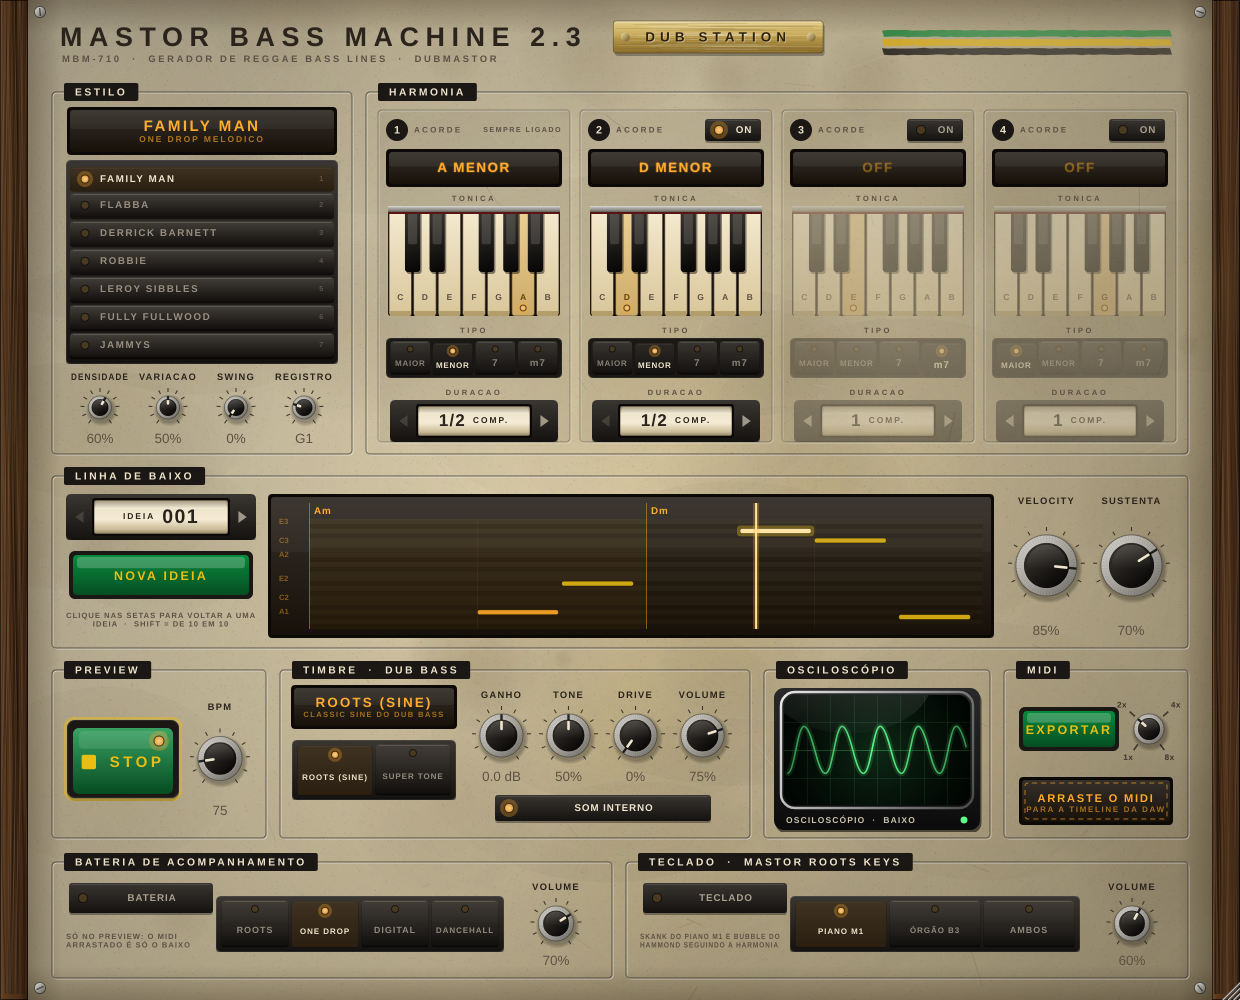
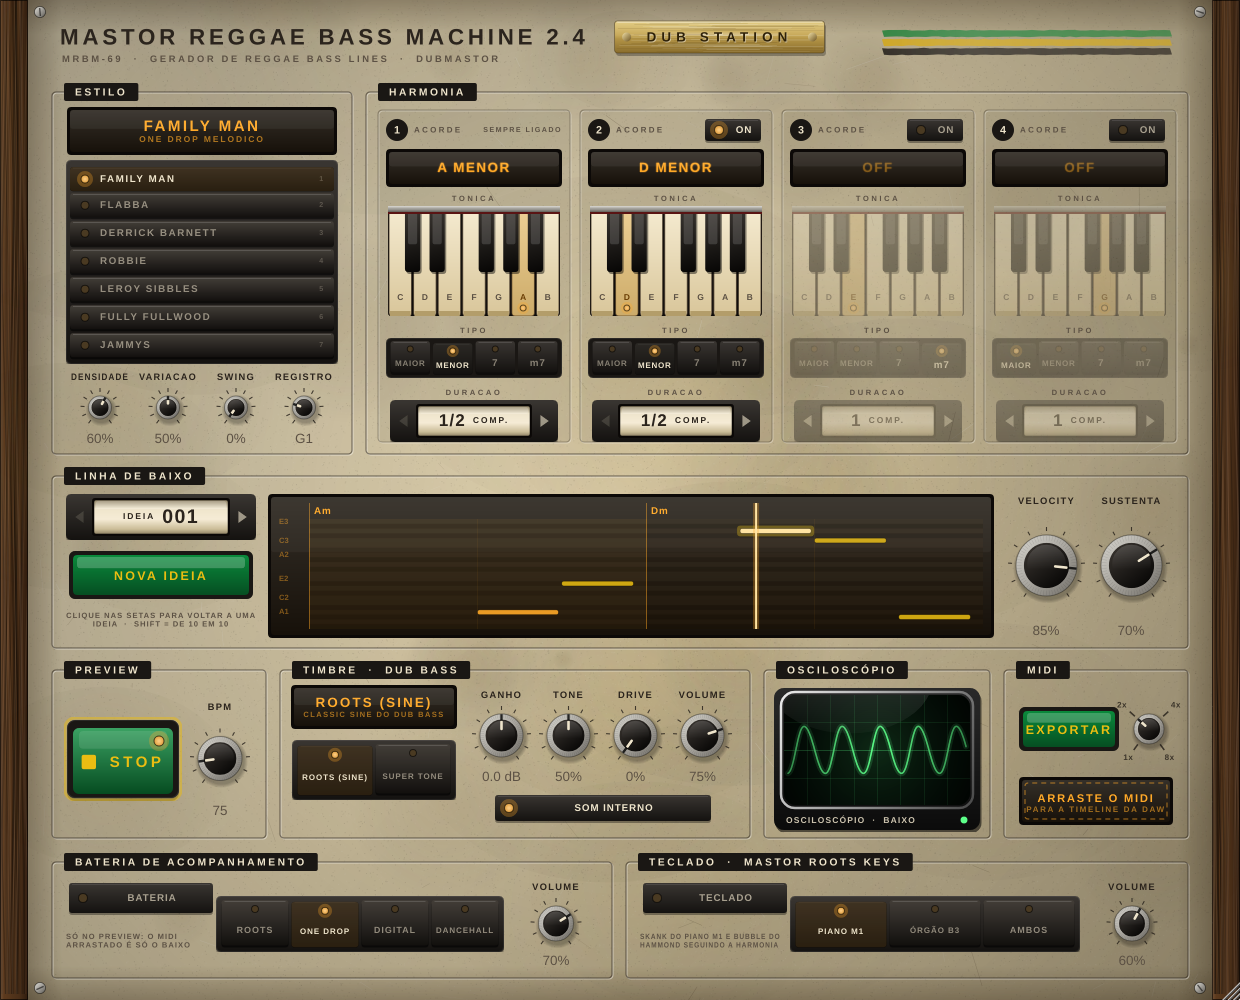
Mastor Reggae Bass Machine MRBM-69 2.4: novo nome em tudo
- Nome: Mastor Reggae Bass Machine MRBM-69 (antes Mastor Bass Machine MBM-710) no
  título, no nome do plugin na DAW, no Standalone, nos MIDIs exportados e na pasta padrão
- Release e instaladores: MRBM-69-x.y, MRBM-69-Windows.zip, MRBM-69-macOS.zip
- Códigos do plugin (Dblb / Mbm7) e bundle id mantidos: projetos antigos continuam abrindo
- Título menor para caber o nome novo ao lado da plaqueta DUB STATION
- Versão 2.4, READMEs, notas e imagem atualizados

Claude-Session: https://claude.ai/code/session_01DJAeyZbiJ7iwjCqM3GUBFu

Changed region(s): [[0.0306, 0.031, 0.4903, 0.062], [0.521, 0.031, 0.6435, 0.062]]

diff --git a/BassMachine/Source/PluginEditor.cpp b/BassMachine/Source/PluginEditor.cpp
@@ -2,7 +2,7 @@
 #include <tuple>
 
 #ifndef JucePlugin_VersionString
- #define JucePlugin_VersionString "2.3.0"
+ #define JucePlugin_VersionString "2.4.0"
 #endif
 static juce::String versionShort() { return juce::String (JucePlugin_VersionString).upToLastOccurrenceOf (".", false, false); }
 
@@ -604,7 +604,7 @@ void MidiDragZone::mouseDrag (const juce::MouseEvent&)
     dragging = true;
     const auto s = proc.getSettings();
     auto file = juce::File::getSpecialLocation (juce::File::tempDirectory)
-                    .getChildFile (juce::String ("Bass Machine ") + mbm::styleName (s.style) + " " + juce::String (s.seed) + ".mid");
+                    .getChildFile (juce::String ("Reggae Bass Machine ") + mbm::styleName (s.style) + " " + juce::String (s.seed) + ".mid");
     if (proc.writeMidiFile (file))
         juce::DragAndDropContainer::performExternalDragDropOfFiles (juce::StringArray (file.getFullPathName()), false, this);
 }
@@ -965,7 +965,7 @@ bool BassMachinePanel::slotEnabled (int i) const
 
 void BassMachinePanel::exportMidi()
 {
-    auto dir = juce::File::getSpecialLocation (juce::File::userDocumentsDirectory).getChildFile ("Bass Machine");
+    auto dir = juce::File::getSpecialLocation (juce::File::userDocumentsDirectory).getChildFile ("Reggae Bass Machine");
     dir.createDirectory();
     const auto s = proc.getSettings();
     const auto name = juce::String ("baixo ") + juce::String (mbm::styleName (s.style)).toLowerCase() + " " + juce::String (s.seed) + ".mid";
@@ -980,7 +980,7 @@ void BassMachinePanel::exportMidi()
                               if (! f.hasFileExtension ("mid")) f = f.withFileExtension ("mid");
                               if (! proc.writeMidiFile (f))
                                   juce::AlertWindow::showMessageBoxAsync (juce::MessageBoxIconType::WarningIcon,
-                                                                          "Bass Machine", "Nao foi possivel salvar o MIDI.");
+                                                                          "Reggae Bass Machine", "Nao foi possivel salvar o MIDI.");
                           });
 }
 
@@ -1141,8 +1141,8 @@ void BassMachinePanel::renderBackground()
 
     // --- cabeçalho
     g.setColour (colours::ink);
-    g.setFont (stencil (30.0f, 0.22f));
-    const juce::String title ("MASTOR BASS MACHINE " + versionShort());
+    g.setFont (stencil (25.0f, 0.15f));
+    const juce::String title ("MASTOR REGGAE BASS MACHINE " + versionShort());
     g.drawText (title, plate.getX() + 32, 20, 760, 34, juce::Justification::left);
     const float titleRight = (float) plate.getX() + 32.0f + juce::GlyphArrangement::getStringWidth (g.getCurrentFont(), title);
 
@@ -1183,7 +1183,7 @@ void BassMachinePanel::renderBackground()
     }
     g.setColour (colours::inkSoft);
     g.setFont (stencil (10.5f, 0.25f));
-    g.drawText (juce::String::fromUTF8 ("MBM-710  \xc2\xb7  GERADOR DE REGGAE BASS LINES  \xc2\xb7  DUBMASTOR"), plate.getX() + 34, 52, 700, 14, juce::Justification::left);
+    g.drawText (juce::String::fromUTF8 ("MRBM-69  \xc2\xb7  GERADOR DE REGGAE BASS LINES  \xc2\xb7  DUBMASTOR"), plate.getX() + 34, 52, 700, 14, juce::Justification::left);
 
     {   // faixas da bandeira da Jamaica, pintadas à mão e envelhecidas
         const float sx = (float) plate.getRight() - 330.0f, sw = 290.0f, sh = 7.0f;

diff --git a/BassMachine/Source/DubBassTimbre.h b/BassMachine/Source/DubBassTimbre.h
@@ -1,9 +1,9 @@
-// Mastor Bass Machine MBM-710 — som do preview com o sistema de timbres do Dub Bass
+// Mastor Reggae Bass Machine MRBM-69 — som do preview com o sistema de timbres do Dub Bass
 //
 // Usa as mesmas peças do Dub Bass (pasta ../../DubBass/Source): a voz BassVoice (Classic Sine com
 // harmônicos ou 808), o filtro passa-baixa, as saturações TUBE / TAPE / FUZZ e o Maximizer.
 // Cada TIMBRE é um conjunto de ajustes do Dub Bass; TONE e DRIVE mexem por cima do timbre.
-// Se o Dub Bass mudar o som, o preview do Bass Machine acompanha.
+// Se o Dub Bass mudar o som, o preview do Reggae Bass Machine acompanha.
 #pragma once
 #include <juce_dsp/juce_dsp.h>
 #include "../../DubBass/Source/BassVoice.h"

diff --git a/BassMachine/Source/PluginProcessor.cpp b/BassMachine/Source/PluginProcessor.cpp
@@ -446,7 +446,7 @@ bool BassMachineProcessor::writeMidiFile (const juce::File& file) const
     juce::MidiMessageSequence meta, bass;
     meta.addEvent (juce::MidiMessage::tempoMetaEvent ((int) std::round (60000000.0 / bpm)), 0.0);
     meta.addEvent (juce::MidiMessage::timeSignatureMetaEvent (4, 4), 0.0);
-    bass.addEvent (juce::MidiMessage::textMetaEvent (3, juce::String ("Bass Machine - ") + mbm::styleName (s.style)
+    bass.addEvent (juce::MidiMessage::textMetaEvent (3, juce::String ("Reggae Bass Machine - ") + mbm::styleName (s.style)
                                                           + " ideia " + juce::String (s.seed)), 0.0);
 
     for (int r = 0; r < reps; ++r)

diff --git a/BassMachine/tests/snapshot.cpp b/BassMachine/tests/snapshot.cpp
@@ -1,4 +1,4 @@
-// Renderiza a interface do Bass Machine num PNG (sem DAW), com o loop tocando para o visor e o osciloscópio:
+// Renderiza a interface do Reggae Bass Machine num PNG (sem DAW), com o loop tocando para o visor e o osciloscópio:
 //   cmake -B build-snap -DBASSMACHINE_SNAPSHOT=ON -DBASSMACHINE_PLUGIN=OFF && cmake --build build-snap --target BassMachineSnapshot
 //   ./build-snap/.../BassMachineSnapshot docs/interface.png [estilo 0-6] [timbre 0-1] [escala] [wav] [bateria 0-3] [teclado 0-2]
 #include <juce_audio_utils/juce_audio_utils.h>

diff --git a/BassMachine/Source/PluginProcessor.h b/BassMachine/Source/PluginProcessor.h
@@ -23,7 +23,7 @@ public:
     juce::AudioProcessorEditor* createEditor() override;
     bool hasEditor() const override { return true; }
 
-    const juce::String getName() const override { return "Mastor Bass Machine MBM-710"; }
+    const juce::String getName() const override { return "Mastor Reggae Bass Machine MRBM-69"; }
     bool acceptsMidi() const override  { return true; }
     bool producesMidi() const override { return true; }
     bool isMidiEffect() const override { return false; }

diff --git a/BassMachine/Source/AccompEngine.h b/BassMachine/Source/AccompEngine.h
@@ -1,4 +1,4 @@
-// Mastor Bass Machine — acompanhamento do PREVIEW (C++ puro, sem JUCE)
+// Mastor Reggae Bass Machine — acompanhamento do PREVIEW (C++ puro, sem JUCE)
 //
 // BATERIA: quatro levadas simples, com um compasso de virada no fim do loop.
 //   ROOTS      rockers da Channel One: bumbo no 1 e no 3, aro no 3, hi-hat em colcheias com

diff --git a/BassMachine/Source/BassEngine.h b/BassMachine/Source/BassEngine.h
@@ -1,4 +1,4 @@
-// Mastor Bass Machine MBM-710 — motor de linhas de baixo (C++ puro, sem JUCE, testável isoladamente)
+// Mastor Reggae Bass Machine MRBM-69 — motor de linhas de baixo (C++ puro, sem JUCE, testável isoladamente)
 //
 // Três escolas de baixo jamaicano, cada uma com células rítmicas próprias:
 //

diff --git a/README.md b/README.md
@@ -22,7 +22,7 @@ bubble, já alinhados, de 4 a 64 compassos) para a timeline. Um projeto começa 
 | **Mastor Reggae Chord Machine MRCM-1240 1.5** | Instrumento / gerador MIDI: escolha até 4 acordes (teclado mecânico, maior/menor, inversões com sugestão automática, contador de compassos) e ele toca o skank de piano M1 com as duas mãos e o bubble de Hammond no andamento da DAW; arraste o MIDI colorido por acorde para a timeline | [⬇ macOS](https://github.com/dubmastor/DubMastor-DubStation-/releases/download/MDCM-404-1.4/MastorDubChordsMachine-macOS.zip) | [⬇ Windows](https://github.com/dubmastor/DubMastor-DubStation-/releases/download/MDCM-404-1.4/MastorDubChordsMachine-Windows.zip) | [DubChords/](DubChords/) |
 | **Mastor Reggae Dub Bass Instrument MRDBI-07 1.5** | Instrumento (antigo Dub Bass): baixo de reggae Bass (senoide), Super Tone (digital King Jammy) ou 808, envelope gráfico, saturação com válvula animada ou fita de rolo, EQ editável na tela, reverb, bass boost em 60 Hz, teclado C1–C4 e maximizer com VU digital estilo Ozone | [⬇ macOS](https://github.com/dubmastor/DubMastor-DubStation-/releases/download/MRDBI-07-1.5/MastorReggaeDubBassInstrument-macOS.zip) | [⬇ Windows](https://github.com/dubmastor/DubMastor-DubStation-/releases/download/MRDBI-07-1.5/MastorReggaeDubBassInstrument-Windows.zip) | [DubBass/](DubBass/) |
 | **Mastor Dub Drums Machine MDDM-12 1.1** | Instrumento / gerador MIDI: esqueleto da bateria de reggae (Rockers, One Drop) e Boom Bap, com caixa no 2 e no 4 e bumbo/caixa editáveis por colcheia, com chave de baterista (Style Scott, Santa Davis, Carlton Barrett) com a assinatura de hi-hat e as viradas de cada um, caixa/aro, virada de intro, kit anos 70 ou digital (King Jammy / Sleng Teng), MIDI colorido por compasso e mapa de notas | [⬇ macOS](https://github.com/dubmastor/DubMastor-DubStation-/releases/download/DubDrums-1.1/DubMastorDubDrums-macOS.zip) | [⬇ Windows](https://github.com/dubmastor/DubMastor-DubStation-/releases/download/DubDrums-1.1/DubMastorDubDrums-Windows.zip) | [DubDrums/](DubDrums/) |
-| **Mastor Bass Machine MBM-710 2.3** | Instrumento / gerador de reggae bass lines em MIDI: botoeira com 7 baixistas (Family Man, Flabba, Derrick Barnett, Robbie, Leroy Sibbles, Fully Fullwood, Jammys/Sleng Teng) sobre até 4 acordes; preview com os timbres do Dub Bass (Roots Sine e Super Tone), bateria de acompanhamento (Roots, One Drop, Digital, Dancehall) e teclado do Roots Keys; arraste o MIDI para a timeline | [⬇ macOS](https://github.com/dubmastor/DubMastor-DubStation-/releases/download/BassMachine-2.3/MastorBassMachine-macOS.zip) | [⬇ Windows](https://github.com/dubmastor/DubMastor-DubStation-/releases/download/BassMachine-2.3/MastorBassMachine-Windows.zip) | [BassMachine/](BassMachine/) |
+| **Mastor Reggae Bass Machine MRBM-69 2.4** | Instrumento / gerador de reggae bass lines em MIDI: botoeira com 7 baixistas (Family Man, Flabba, Derrick Barnett, Robbie, Leroy Sibbles, Fully Fullwood, Jammys/Sleng Teng) sobre até 4 acordes; preview com os timbres do Dub Bass (Roots Sine e Super Tone), bateria de acompanhamento (Roots, One Drop, Digital, Dancehall) e teclado do Roots Keys; arraste o MIDI para a timeline | [⬇ macOS](https://github.com/dubmastor/DubMastor-DubStation-/releases/download/MRBM-69-2.4/MRBM-69-macOS.zip) | [⬇ Windows](https://github.com/dubmastor/DubMastor-DubStation-/releases/download/MRBM-69-2.4/MRBM-69-Windows.zip) | [BassMachine/](BassMachine/) |
 | **Mastor Dub Horns 1.1** | Instrumento: naipe de metais anos 70 (trompete, flugel, saxes e trombone) com harmonia no tom, timbres de estúdio jamaicano, Mastor Tape Echo, EQ gráfico de 10 bandas com Filtro Tubby e frases MIDI (ataques estilo Dean Fraser e introduções) com notas escolhidas por você | [⬇ macOS](https://github.com/dubmastor/DubMastor-DubStation-/releases/download/MastorDubHorns-1.1/MastorDubHorns-macOS.zip) | [⬇ Windows](https://github.com/dubmastor/DubMastor-DubStation-/releases/download/MastorDubHorns-1.1/MastorDubHorns-Windows.zip) | [MastorDubHorns/](MastorDubHorns/) |
 | **Mastor Fone 1.6** | Efeito de voz: rádio AM, telefone antigo e megafone, com o eco de fita e o maximizer do Big Knob, no visual Dub Station | [⬇ macOS](https://github.com/dubmastor/DubMastor-DubStation-/releases/latest/download/MastorFone-macOS.zip) | [⬇ Windows](https://github.com/dubmastor/DubMastor-DubStation-/releases/latest/download/MastorFone-Windows.zip) | [MastorFone/](MastorFone/) |
 | **Dub Station 2.6 (FitaEco TE-12)** | Eco de fita de 3 cabeças + reverb de mola, com EQ gráfico | [⬇ macOS](https://github.com/dubmastor/DubMastor-DubStation-/releases/latest/download/DubStation26-macOS.zip) | [⬇ Windows](https://github.com/dubmastor/DubMastor-DubStation-/releases/latest/download/DubStation26-Windows.zip) | [DubStation21/](DubStation21/) |
@@ -44,7 +44,7 @@ Todos os downloads ficam na página de **[Releases](https://github.com/dubmastor
    xattr -dr com.apple.quarantine ~/Library/Audio/Plug-Ins/VST3/"Mastor Reggae Chord Machine MRCM-1240.vst3"
    xattr -dr com.apple.quarantine ~/Library/Audio/Plug-Ins/VST3/"Mastor Reggae Dub Bass Instrument MRDBI-07.vst3"
    xattr -dr com.apple.quarantine ~/Library/Audio/Plug-Ins/VST3/"DubMastor Dub Drums.vst3"
-   xattr -dr com.apple.quarantine ~/Library/Audio/Plug-Ins/VST3/"Mastor Bass Machine MBM-710.vst3"
+   xattr -dr com.apple.quarantine ~/Library/Audio/Plug-Ins/VST3/"Mastor Reggae Bass Machine MRBM-69.vst3"
    xattr -dr com.apple.quarantine ~/Library/Audio/Plug-Ins/VST3/"Mastor Dub Horns.vst3"
    xattr -dr com.apple.quarantine ~/Library/Audio/Plug-Ins/VST3/"Mastor Riddim Machine MRM-0420.vst3"
    ```
@@ -69,7 +69,7 @@ MastorFone/                      Mastor Fone — rádio AM, telefone e megafone 
 DubChords/                       Mastor Reggae Chord Machine MRCM-1240 — gerador de skank/harmonia para riddim (C++ / JUCE 8)
 DubBass/                         Mastor Reggae Dub Bass Instrument MRDBI-07 — baixo de reggae Bass / Super Tone / 808 (C++ / JUCE 8)
 DubDrums/                        Mastor Dub Drums Machine MDDM-12 — gerador de bateria de reggae com bateria interna (C++ / JUCE 8)
-BassMachine/                     Mastor Bass Machine MBM-710 — gerador de reggae bass lines (preview com Dub Bass, Mastor Dub Drums Machine e Roots Keys) (C++ / JUCE 8)
+BassMachine/                     Mastor Reggae Bass Machine MRBM-69 — gerador de reggae bass lines (preview com Dub Bass, Mastor Dub Drums Machine e Roots Keys) (C++ / JUCE 8)
 MastorDubHorns/                  Mastor Dub Horns — naipe de metais anos 70 + Mastor Tape Echo (C++ / JUCE 8)
 RiddimMachine/                   Mastor Riddim Machine MRM-0420 — Dub Chords + MDDM-12 em abas (C++ / JUCE 8)
 .github/workflows/
@@ -80,7 +80,7 @@ RiddimMachine/                   Mastor Riddim Machine MRM-0420 — Dub Chords +
   build-dubchords.yml            compila, valida e publica o MRCM-1240
   build-dubbass.yml              testa, compila, valida e publica o MRDBI-07 (release MRDBI-07-x.y a cada versão)
   build-dubdrums.yml             testa, compila, valida e publica o MDDM-12 (release MDDM-12-x.y a cada versão)
-  build-bassmachine.yml          testa, compila, valida e publica o Bass Machine (release BassMachine-x.y a cada versão)
+  build-bassmachine.yml          testa, compila, valida e publica o Reggae Bass Machine (release MRBM-69-x.y a cada versão)
   build-mastordubhorns.yml       testa, compila, valida e publica o Mastor Dub Horns (release MastorDubHorns-x.y a cada versão)
   build-mrm0420.yml              testa, compila, valida e publica o MRM-0420 (release MRM-0420-x.y a cada versão)
 ```

diff --git a/BassMachine/README.md b/BassMachine/README.md
@@ -1,10 +1,10 @@
-# Mastor Bass Machine MBM-710 2.3 — Gerador de Reggae Bass Lines
+# Mastor Reggae Bass Machine MRBM-69 2.4 — Gerador de Reggae Bass Lines
 
 ← [Voltar para a página inicial do repositório](../README.md)
 
-**[⬇ Windows](https://github.com/dubmastor/DubMastor-DubStation-/releases/download/BassMachine-2.3/MastorBassMachine-Windows.zip)** · **[⬇ macOS](https://github.com/dubmastor/DubMastor-DubStation-/releases/download/BassMachine-2.3/MastorBassMachine-macOS.zip)**
+**[⬇ Windows](https://github.com/dubmastor/DubMastor-DubStation-/releases/download/MRBM-69-2.4/MRBM-69-Windows.zip)** · **[⬇ macOS](https://github.com/dubmastor/DubMastor-DubStation-/releases/download/MRBM-69-2.4/MRBM-69-macOS.zip)**
 
-![Interface do Bass Machine](docs/interface.png)
+![Interface do Reggae Bass Machine](docs/interface.png)
 
 Gerador de **sugestões de linha de baixo** em MIDI para reggae, dub e dancehall, da linha **Dub Station**.
 Você escolhe a harmonia e o baixista, ouve com o som do **Dub Bass**, liga a **bateria** e o **teclado do
@@ -65,7 +65,7 @@ O MIDI arrastado/exportado continua sendo **só o baixo**. O nível do baixo fic
 
 ## MIDI
 - **ARRASTE O MIDI:** clique e arraste a área âmbar para a timeline. Vem a faixa de baixo no BPM do projeto.
-- **EXPORTAR:** salva o `.mid` (padrão: Documentos/Bass Machine). **REPETIR** exporta o loop 1, 2, 4 ou 8 vezes.
+- **EXPORTAR:** salva o `.mid` (padrão: Documentos/Reggae Bass Machine). **REPETIR** exporta o loop 1, 2, 4 ou 8 vezes.
 - **MIDI ao vivo:** as notas do baixo também saem como MIDI do plugin (canal 1).
 
 ## Para desenvolvedores

diff --git a/BassMachine/RELEASE_NOTES.md b/BassMachine/RELEASE_NOTES.md
@@ -1,6 +1,12 @@
-# Mastor Bass Machine MBM-710 — 2.3 · Gerador de Reggae Bass Lines
+# Mastor Reggae Bass Machine MRBM-69 — 2.4 · Gerador de Reggae Bass Lines
 
-- Padrão visual atual da linha Dub Station: a versão fica no título ("MASTOR BASS MACHINE 2.3") e a plaqueta dourada só com "DUB STATION"
+- Novo nome: **Mastor Reggae Bass Machine MRBM-69** (antes Mastor Bass Machine MBM-710) no título, na DAW, nos instaladores, na release e no site
+- Os códigos do plugin continuam os mesmos: projetos que usavam o nome antigo abrem com o novo
+- Release e instaladores agora se chamam `MRBM-69-x.y`, `MRBM-69-Windows.zip` e `MRBM-69-macOS.zip`
+
+## 2.3
+
+- Padrão visual atual da linha Dub Station: a versão fica no título ("MASTOR REGGAE BASS MACHINE 2.3") e a plaqueta dourada só com "DUB STATION"
 
 ## 2.2
 
